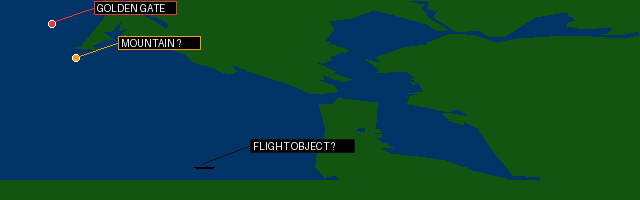
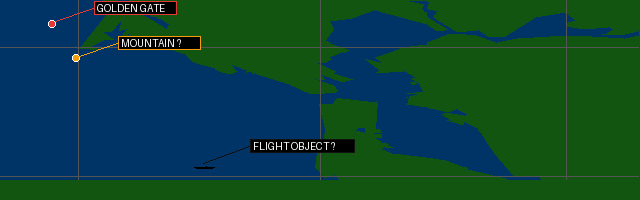
Add traced grid to landmarked M-map

Changed region(s): [[0.0, 0.87, 1.0, 0.9], [0.3125, 0.21, 1.0, 0.24], [0.0, 0.21, 0.1875, 0.24]]

diff --git a/scripts/annotate_run035_m_map_panned_landmarks.py b/scripts/annotate_run035_m_map_panned_landmarks.py
@@ -26,6 +26,10 @@ RUN035_FLIGHT_OBJECT = {
     "segments": (((103, 166), (103, 166)), ((97, 167), (107, 167)), ((98, 168), (106, 168))),
     "evidence": "run035_m_map_stable_20f_trace: C2FA7E with A5=$C4C598",
 }
+RUN035_GRID = (
+    ((283, 0), (283, 179)), ((160, 0), (160, 179)), ((39, 0), (39, 179)),
+    ((0, 176), (319, 176)), ((0, 47), (319, 47)),
+)
 
 
 def main() -> None:
@@ -46,6 +50,8 @@ def main() -> None:
         raise RuntimeError("input is not a complete SVG")
     labels = []
     fragments = ['<g shape-rendering="geometricPrecision" font-family="monospace">']
+    for (x1, y1), (x2, y2) in RUN035_GRID:
+        fragments.append(f'<line x1="{x1 * 2:g}" y1="{y1:g}" x2="{x2 * 2:g}" y2="{y2:g}" stroke="#555" stroke-width="1"/>')
     for name, (x, y), colour, evidence in RUN003_ANCHORS:
         px, py = x - PAN[0], y - PAN[1]
         labels.append({"name": name, "run003_anchor": [x, y], "run035_anchor": [px, py], "evidence": evidence})
@@ -73,6 +79,8 @@ def main() -> None:
     args.svg.write_text(svg.rsplit("</svg>", 1)[0] + "\n" + "\n".join(fragments) + "\n</svg>\n", encoding="utf-8")
     image = Image.open(ROOT / "analysis/visuals/run035_m_map_projected_polygon_vectors.png").convert("RGB")
     draw = ImageDraw.Draw(image)
+    for (x1, y1), (x2, y2) in RUN035_GRID:
+        draw.line(((x1 * 2, y1), (x2 * 2, y2)), fill="#555555", width=1)
     for name, (x, y), colour, _ in RUN003_ANCHORS:
         px, py = x - PAN[0], y - PAN[1]
         draw.ellipse((px - 3.5, py - 3.5, px + 3.5, py + 3.5), fill=colour, outline="white", width=1)
@@ -88,8 +96,9 @@ def main() -> None:
     report = {
         "classification": "panning_transferred_fixed_landmarks_plus_directly_traced_flight_object_marker",
         "source_svg": str(args.input), "panning_relation": "run035 = run003 - (142, 36) host pixels",
+        "grid_segments": [[list(start), list(end)] for start, end in RUN035_GRID],
         "labels": labels,
-        "qualification": "Golden Gate and Mountain ? are transferred fixed-world anchors using the measured coastline translation. FLIGHT OBJECT ? is a direct run035 renderer trace, but that trace does not establish ownership or semantic game identity.",
+        "qualification": "Grid and FLIGHT OBJECT ? are direct run035 renderer traces. Golden Gate and Mountain ? are transferred fixed-world anchors using the measured coastline translation. The marker trace does not establish ownership or semantic game identity.",
     }
     args.output.parent.mkdir(parents=True, exist_ok=True)
     args.output.write_text(json.dumps(report, indent=2) + "\n", encoding="utf-8")

diff --git a/analysis/data/run003_run035_m_map_marker_comparison.md b/analysis/data/run003_run035_m_map_marker_comparison.md
@@ -23,5 +23,5 @@ measured coastline panning translation has different magnitude and direction.
 The visible evidence artifact is
 [`run035_m_map_projected_polygon_vectors_landmarks_traced_marker.svg`](../visuals/run035_m_map_projected_polygon_vectors_landmarks_traced_marker.svg)
 with its inspection PNG alongside it.  Golden Gate and Mountain ? use the
-existing fixed-coastline panning transfer; FLIGHT OBJECT ? is a direct run035
-line trace.
+existing fixed-coastline panning transfer; FLIGHT OBJECT ? and the five map
+grid lines are direct run035 line traces.
